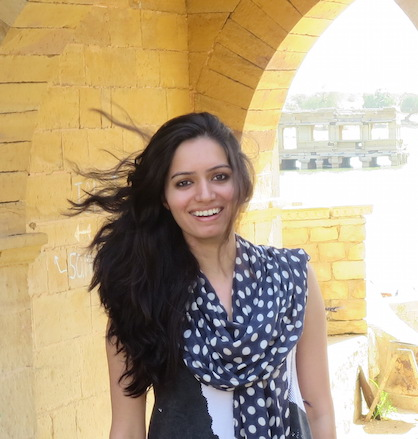
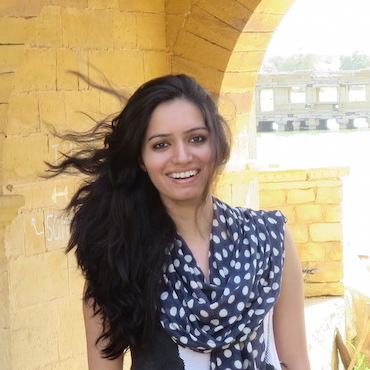
Image size for mobile fixes, adding description about work

diff --git a/index.html b/index.html
@@ -56,8 +56,8 @@
 			
 			<div class="row">
 				<div class="col-sm-7 col-sm-offset-1 desc txt-md">
-						<p>I'm currently a Computer Science grad student at University of Florida.</p>
-						<p>	I'm a part of the Intelligent Natural Interaction Technology lab advised by Dr. Lisa Anthony. Previously, I worked at Digital Green as an Assistant Software Engineer and got my bachelor's degree at IIIT - Delhi.<br>
+						<p>I'm currently a Computer Science grad student at the University of Florida.</p>
+						<p>	I'm a part of the Intelligent Natural Interaction Technology lab advised by Dr. Lisa Anthony where I'm exploring how we can motivate children to be more active through video games, using full body gesture recognition such as Microsoft Kinect. Previously, I worked at Digital Green as an Assistant Software Engineer and got my bachelor's degree at IIIT - Delhi.<br>
 						I love building technology that makes people's lives easier. I'm particularly interested in Human Computer Interaction and Natural User Interfaces.</p>
 				</div>
 				<div class="col-sm-2 col-sm-offset-1 pdg-top-sm txt-md">
@@ -96,7 +96,7 @@
 				<img src="img/S.png" alt="bootstrap" class="img-circle img-responsive center-align-horz img-size">
 				<div class="center-align-horz width-80 pdg-top-xs">
 					<p class="text-center txt-md">Skrollr<p>
-					I have been wanting to try out parallax scroll for quite sometime now and decided to use this opportunity to finally dip my toe in it. Skrollr is one of the most popular libraries for parallax scrolling.
+					I have been wanting to try out parallax scroll for quite sometime now and decided to use this opportunity to finally dip my toes in it. Skrollr is one of the most popular libraries for parallax scrolling.
 				</div>
 			</div>
 		</div>
